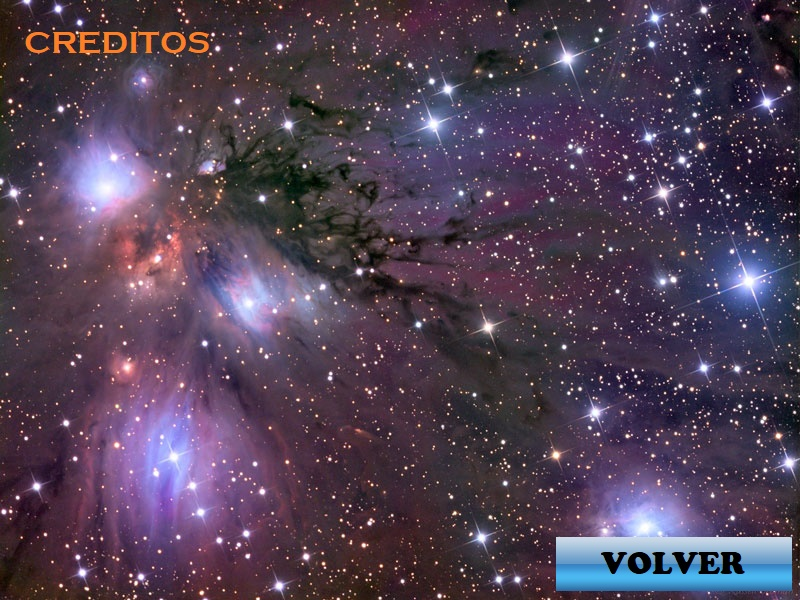
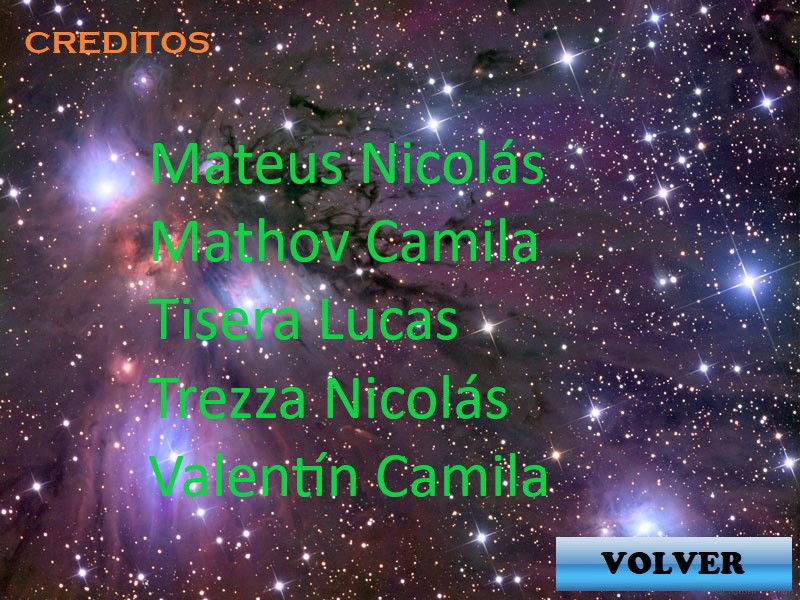
Creditos

diff --git a/MenuJuego/Menu.py b/MenuJuego/Menu.py
@@ -1,28 +1,39 @@
 import pygame
 
+def creditos(pantalla):
+	fondoc = pygame.image.load("Recursos/Menu/fondocreditos.jpg")
+	pause = True
+	while pause:
+		for evento in pygame.event.get():
+			if evento.type == pygame.KEYDOWN:
+				if evento.key == pygame.K_RETURN:
+					pause = False
+
+		pantalla.blit(fondoc,(0,0))
+		pygame.display.update()
+
 def main():
     ancho = 800
     alto = 600
     navex = 285
-    navey = 255
-    
-    reloj = pygame.time.Clock()
-    
+    navey = 325
+  
     pygame.init()
     pantalla = pygame.display.set_mode((ancho,alto))
     pygame.display.set_caption("NAVE")
     
     nave = pygame.image.load("Recursos/Menu/nave.png")
     fondo = pygame.image.load("Recursos/Menu/fondonombre.jpg")
-    boton = [pygame.image.load("Recursos/Menu/botonjugar.png"), pygame.image.load("Recursos/Menu/botonopciones.png"), pygame.image.load("Recursos/Menu/botoncreditos.png"), pygame.image.load("Recursos/Menu/salir.png")]
+    boton = [pygame.image.load("Recursos/Menu/botonjugar.png"), pygame.image.load("Recursos/Menu/botoncreditos.png"), pygame.image.load("Recursos/Menu/salir.png")]
     
-    while True:
+    salir = False
+    while not salir:
         for event in pygame.event.get():
             if event.type == pygame.QUIT:
-                pygame.quit()
+                salir = True
             elif event.type == pygame.KEYDOWN:
                 if event.key == pygame.K_UP:
-                    if navey == 255:
+                    if navey == 325:
                         pass
                     else:
                         navey -= 70            
@@ -32,23 +43,18 @@ def main():
                     else:
                         navey += 70
                 elif event.key == pygame.K_RETURN:
-                    if navey == 255:
-                        import Game
                     if navey == 325:
-                        print ("opciones")
+                    	salir = True
+                    	import Game
                     if navey == 395:
-                        print ("creditos")
+                    	creditos(pantalla)
                     if navey == 465:
-                        pygame.quit()
+                        salir = True
         
         pantalla.blit(fondo,(0,0))
-       
-        reloj.tick(20)
-       
-        pantalla.blit(boton[0],(ancho/2-118, 250))
-        pantalla.blit(boton[1],(ancho/2-118, 320))
-        pantalla.blit(boton[2],(ancho/2-118, 390))
-        pantalla.blit(boton[3],(ancho/2-118, 460))
+        pantalla.blit(boton[0],(ancho/2-118, 320))
+        pantalla.blit(boton[1],(ancho/2-118, 390))
+        pantalla.blit(boton[2],(ancho/2-118, 460))
         
         pantalla.blit(nave,(navex,navey))
         pygame.display.update()
